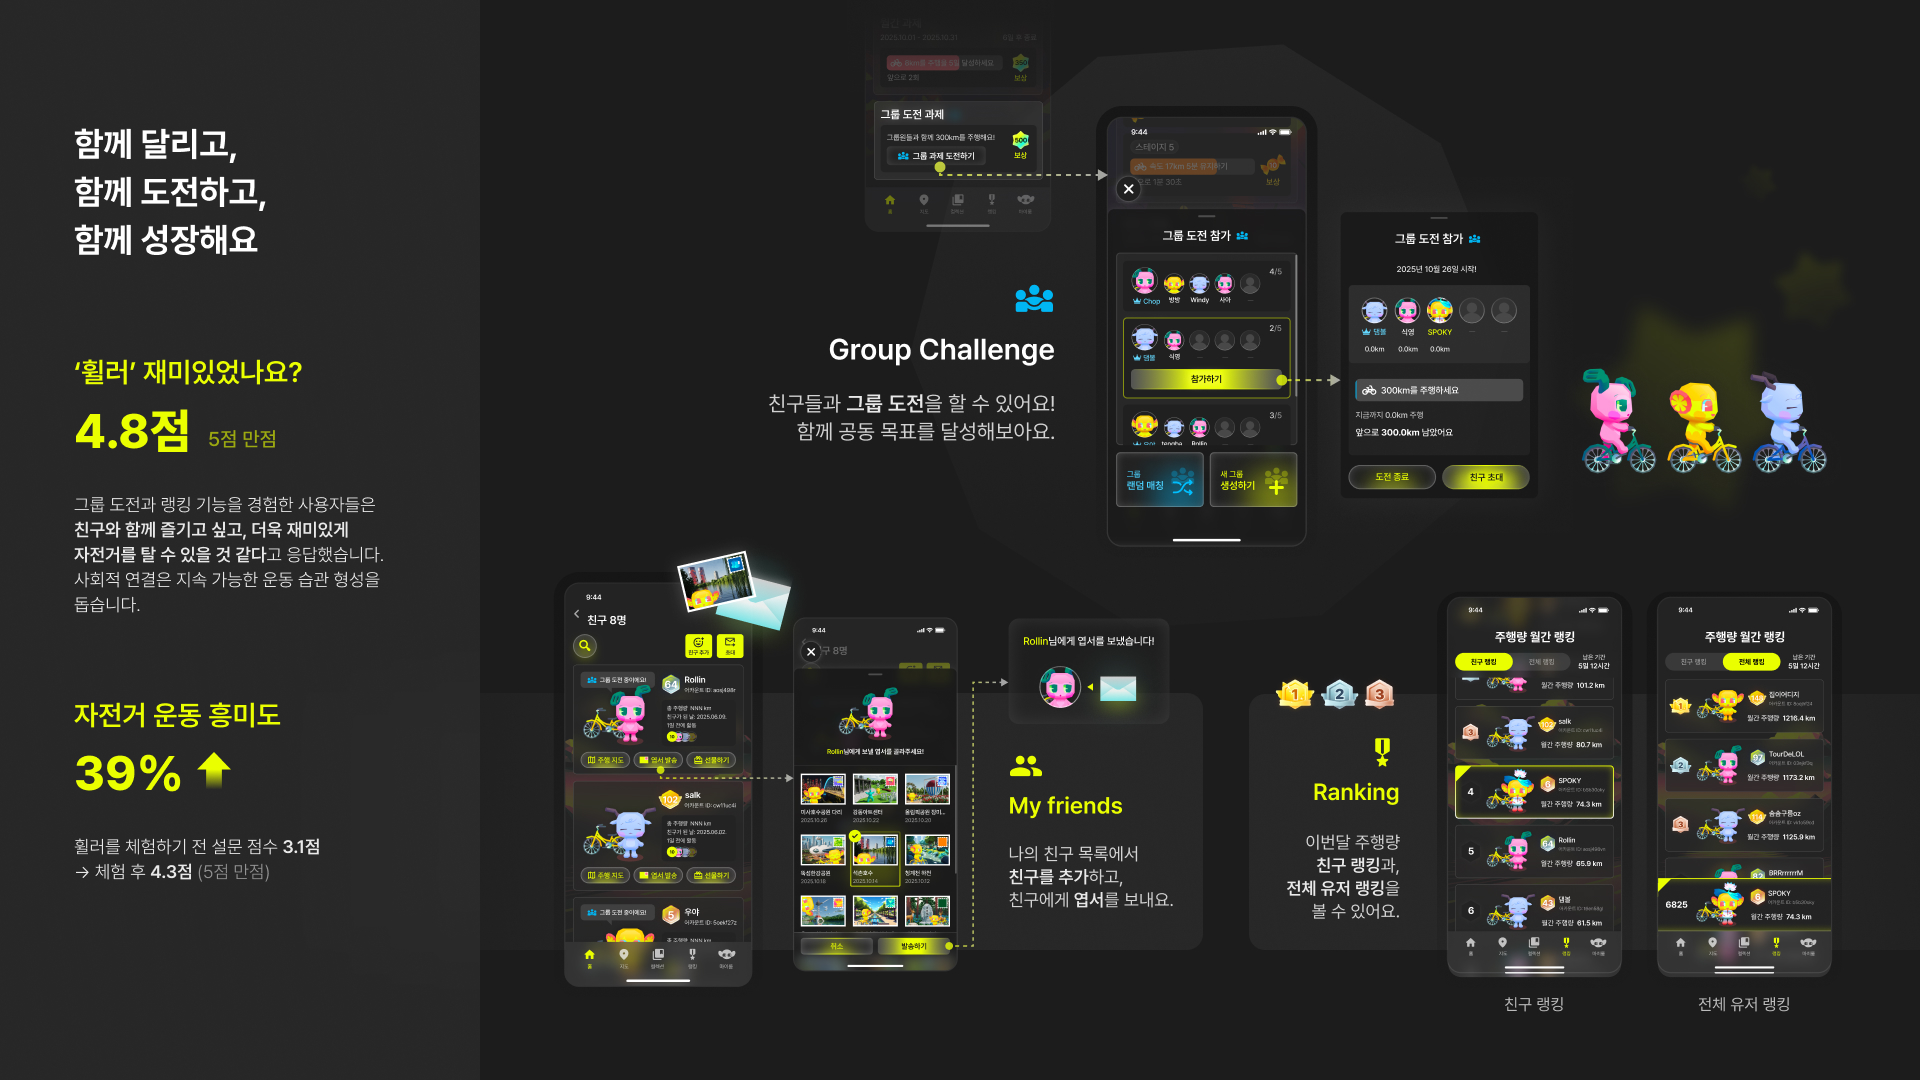
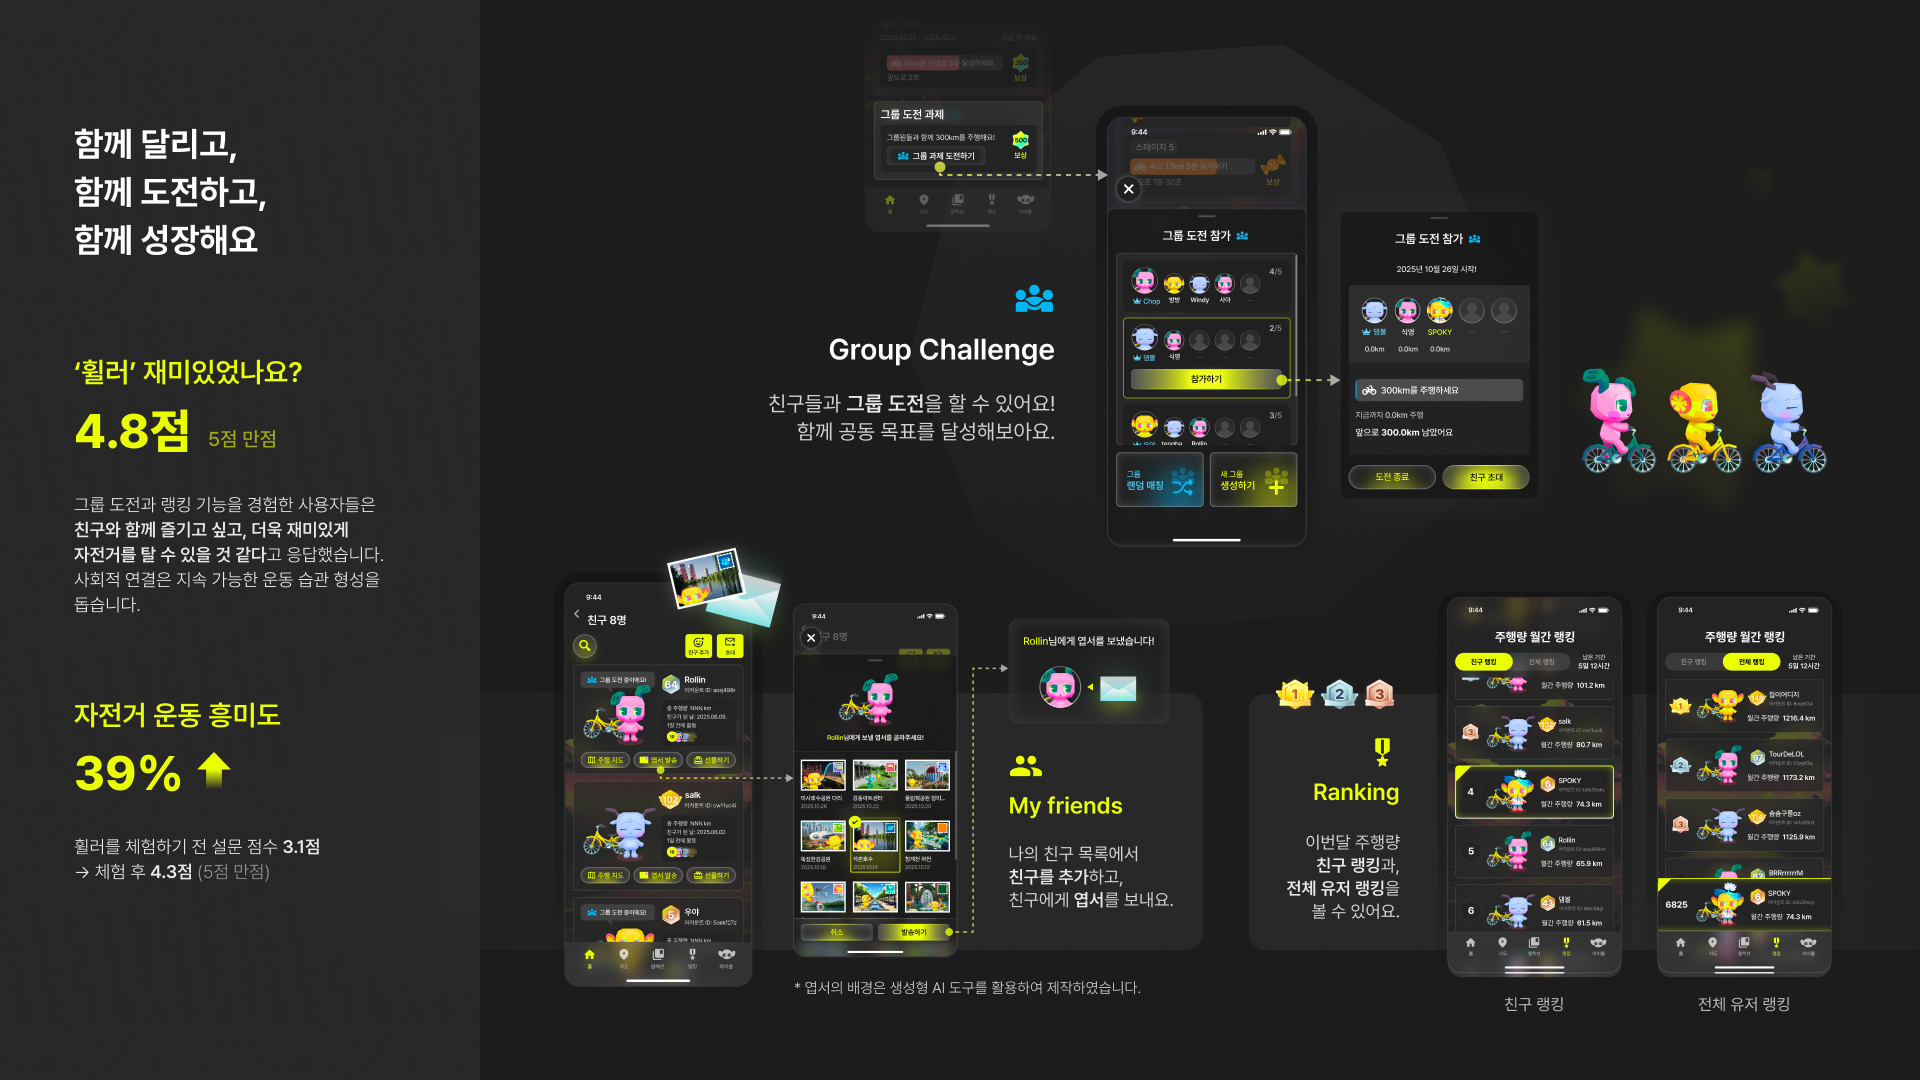
대외 활동 수정

Changed region(s): [[0.4062, 0.5806, 0.5625, 0.9167], [0.3438, 0.4889, 0.4375, 0.6111]]

diff --git a/BwG/index.html b/BwG/index.html
@@ -407,7 +407,7 @@
                             <div class="timeline-date">2026.01 - 2026.02</div>
                             <div class="timeline-content">
                                 <h4 class="timeline-title">직장인·대학생 IT연합동아리 DND</h4>
-                                <p class="timeline-role">UI/UX 디자이너</p>
+                                <p class="timeline-role">플랫폼 개발 UI/UX 디자이너</p>
                                 <p class="timeline-text">
                                     <span class="timeline-text-summary"></span>
                                     <span class="timeline-text-detail" style="display: none;">
@@ -420,11 +420,19 @@
                                 </button>
                             </div>
                         </div>
+                                                <div class="timeline-item">
+                            <div class="timeline-date">2026.01 - 2026.02</div>
+                            <div class="timeline-content">
+                                <h4 class="timeline-title">하남세무서</h4>
+                                <p class="timeline-role">부가가치세 신고 업무 및 세무 업무 보조 국가근로</p>
+                            </div>
+                        </div>
+
 
                         <div class="timeline-item">
                             <div class="timeline-date">2025.03 - 2025.10</div>
                             <div class="timeline-content">
-                                <h4 class="timeline-title">가천대학교 시각디자인학과</h4>
+                                <h4 class="timeline-title">가천대학교 시각디자인학과 졸업 준비 위원회</h4>
                                 <p class="timeline-role">졸업 준비 위원회 - UI/UX 디자이너</p>
                                 <p class="timeline-text">
                                     <span class="timeline-text-summary"></span>
@@ -465,6 +473,13 @@
                             <div class="timeline-content">
                                 <h4 class="timeline-title">강동아트센터 아트갤러리 전시회</h4>
                                 <p class="timeline-role">'움직이는 마을 : 강동 이야기' 자원봉사</p>
+                            </div>
+                        </div>
+                        <div class="timeline-item">
+                            <div class="timeline-date">2022.06 - 2022.07</div>
+                            <div class="timeline-content">
+                                <h4 class="timeline-title">한국은행 </h4>
+                                <p class="timeline-role">한국은행 본사 사무 보조, 엑셀 업무 아르바이트 </p>
                             </div>
                         </div>
                     </div>
